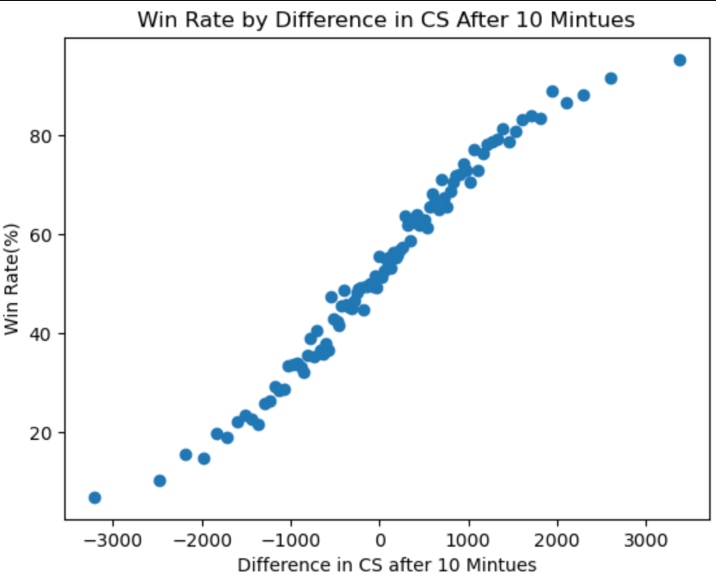
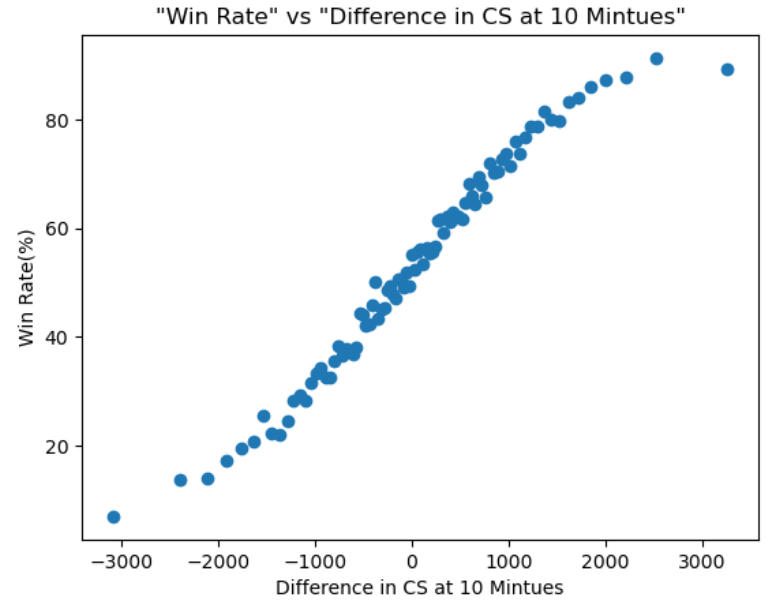
feat: part 4 permutation test completed

Changed region(s): [[0.0, 0.0, 1.0, 0.988]]

diff --git a/README.md b/README.md
@@ -51,7 +51,7 @@ This is a two-dimensional box plot that shows the distribution of total kills by
 
 ### Bivariate Analysis 2
 ![My Image](./plots/bivar_scatter_WinRate_DifCS.png "Bivariate Scatter Plot: Win Rate vs CS at Ten Minute")
-Each data point in the graph shows the average win rate of a group of games with similar CS difference scores after 10 minutes. This plot indicates a positive correlation between the difference in CS after 10 minutes and the win rate.
+Each data point in the graph shows the average win rate of a group of games with similar CS difference scores at 10 minutes. This plot indicates a positive correlation between the difference in CS at 10 minutes and the win rate.
 
 ### Interesting Aggregates
 ![My Image](./plots/interesting_aggregates.png "Interesting Aggregates: Team Side + Result, and the average gold, kills, wardkills")
@@ -77,7 +77,35 @@ print(counts[['Quarter', 'Count']].head().to_markdown(index=False))
 
 ---
 
-## Hypothesis Testing
+## Permutation Testing
+### **Null and Alternative Hypotheses**
+
+- **Null Hypothesis (H0):** "The distribution of `Creep Score at Ten Minutes` is the same between winning teams and losing teams."
+- **Alternative Hypothesis (H1):** "The distribution of `Creep Score at Ten Minutes` is different between winning teams and losing teams."
+
+### **Choice of Test Statistic and Significance Level**
+
+- **Test Statistic:** We selected the **Kolmogorov-Smirnov (KS) test statistic** because it effectively compares the distributions between two samples. This choice is apt for our hypothesis, which concerns the distribution of CS differences between winning and losing teams.
+- **Significance Level (α):** A threshold of **0.05** was chosen to determine statistical significance. This level is widely accepted for balancing Type I and Type II error rates in hypothesis testing.
+
+### **Justification for Our Approach**
+
+The KS test is an excellent choice for our analysis due to its non-parametric nature, allowing us to compare distributions without assuming a specific distribution shape. Moreover, employing a permutation test enhances the robustness of our findings. This method does not rely on assumptions about the distribution of the test statistic under the null hypothesis, thereby providing a strong foundation for our conclusion.
+
+### **Visualization of Hypothesis Test**
+
+![My Image](./plots/Permutation_test_res_cs.png "Permutation Test for CS Difference at 10 Minutes")
+
+
+*This histogram shows the distribution of KS statistics obtained from permuted samples alongside our observed statistic, marked in red. The extreme nature of our observed statistic compared to the permutations underscores the significant difference in creep score distributions between winning and losing teams.*
+
+### **Results and Conclusion**
+
+Upon conducting the test with **1,000 iterations** in our permutation loop, we observed a resulting **p-value of 0.0**. This exceptionally low p-value leads us to **reject the null hypothesis**. It indicates a statistically significant difference in the distribution of `Creep Score at Ten Minutes` between teams that win and those that lose. In the context of League of Legends, this suggests that the early game advantage, as measured by creep score differences at the ten-minute mark, could be a strong indicator of a team's likelihood of winning the match.
+
+### **Interpreting the Conclusion**
+
+The finding that winning teams tend to have a distinct advantage in creep score by the ten-minute mark underlines the importance of early game strategies and objectives control. While statistical tests cannot prove hypotheses with absolute certainty, our results strongly suggest that achieving a higher creep score early in the game correlates with a higher probability of winning. Teams and players should consider strategies that maximize their early-game CS to improve their chances of victory.
 
 ---
 
